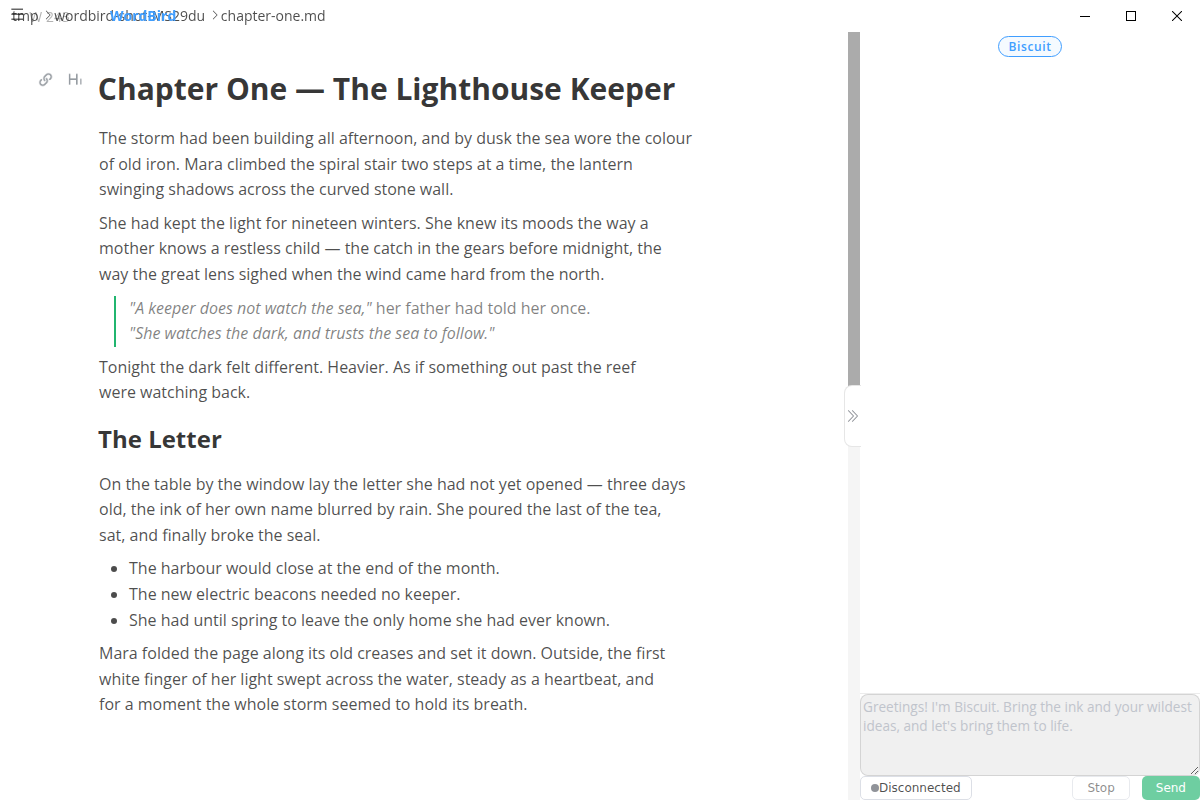
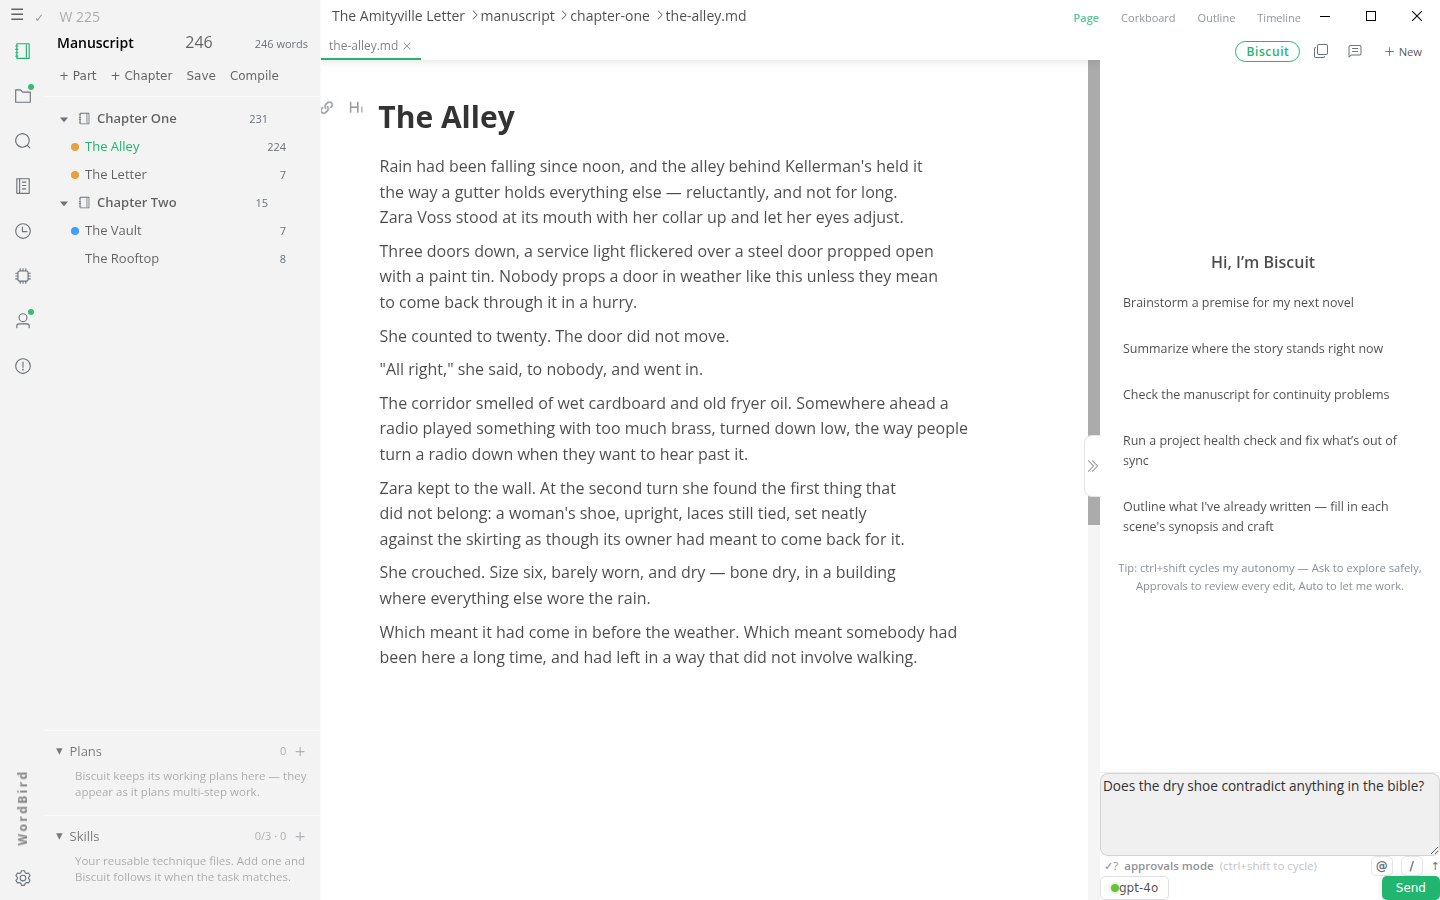
docs: README describes the whole product; new screenshot with both rails open
The README had drifted into describing a smaller app than the one that
ships: it named four permission modes (there are three — ask, approvals,
auto), claimed 29 tools (59) and 740 unit tests, and omitted most of what
WordBird now does — the Timeline and craft columns, voice exemplars, the
fact ledger and relationship map, decisions log, skills and biscuit.md,
manuscript import, EPUB/DOCX compile, project health and the steward,
prose linting, plans and book runs, writing goals, the agent tree, and
the Claude subscription provider.

Rewritten as a description of the product rather than a record of what
was added when: present tense, feature-first, no changelog framing.
Counts verified against the source (59 tools, 7 roles, 3 modes, 32
themes, 9 locales).

Screenshot recaptured at 1440x900 with the binder and Biscuit both open,
showing a real manuscript in the editor. The Biscuit panel is presented
in its connected state with a question typed in the composer — no model
output is fabricated.

diff --git a/README.md b/README.md
@@ -21,50 +21,73 @@
 
 <br>
 
+![WordBird — the binder, the manuscript, and Biscuit](docs/assets/wordbird.png?raw=true)
+
 ## Why WordBird?
 
 Every AI writing tool can generate a paragraph. Almost none can keep a **400-page novel coherent** — and not one lets you say *"this character no longer exists"* and safely carry that decision through the entire book.
 
-WordBird can. It's built around three ideas no other novel-writing app combines:
+WordBird is built around three ideas no other novel-writing app combines:
 
-🤖 **A real agent team, not a text box.** Biscuit doesn't just autocomplete. It orchestrates specialist AI agents — explorers that sweep your manuscript, researchers that hit the web and Wikipedia, drafters, continuity auditors, line editors, and plotters — spawned dynamically and running in parallel, with the whole operation narrated in plain language.
+🤖 **A real agent team, not a text box.** Biscuit orchestrates specialist agents — explorers that sweep your manuscript, researchers that hit the web, drafters, continuity auditors, line editors, plotters, and a steward that keeps the whole project in sync — spawned as the work demands and running in parallel, with the operation narrated in plain language.
 
-🔍 **Nothing lands without your say-so.** Every AI change arrives as a reviewable diff — accept per hunk, per file, or all at once — exactly like a modern code editor, but built for prose. Autonomy is a dial you control (Plan / Ask / Auto / Max, cycled with Shift+Tab), and every sweeping change is snapshot-protected so one click rewinds it.
+🔍 **Nothing lands without your say-so.** Every change to your prose arrives as a reviewable diff — accept per change or all at once. Autonomy is a dial you control, and every sweeping operation takes a snapshot first, so one click rewinds it.
 
-🏠 **Your book stays yours.** Plain Markdown files on your disk. Your own AI keys — OpenAI, Anthropic, Gemini, OpenRouter — or fully local with Ollama. No cloud lock-in, no proprietary format, no subscription holding your manuscript hostage.
+🏠 **Your book stays yours.** Plain Markdown files on your disk. Your own AI keys — OpenAI, Anthropic, Gemini, OpenRouter — a Claude Pro/Max subscription, or fully local with Ollama. No cloud lock-in, no proprietary format, no subscription holding your manuscript hostage.
 
-## Screenshot
+## The writing environment
 
-![WordBird — the novel-writing editor with the Biscuit AI companion](docs/assets/wordbird.png?raw=true)
+**The Binder** is a Scrivener-style manuscript tree with drag-to-reorder, per-scene status, POV and word counts. Projects come in three layouts — chapters & scenes, a flat scene pool, or single-file chapters — and all of them are just Markdown folders you can open in any other editor.
 
-## What it does
+**Four ways to see your book.** Page for writing, Corkboard for scene cards and synopses, Outline for a sortable metadata table (status, POV, location, plus goal/conflict/outcome and value-shift craft columns), and Timeline for story-time against narrative order, with subplot threads as filterable lanes.
 
-### ✍ A serious writing environment
-- **Distraction-free WYSIWYG editor** — write Markdown, see finished prose; focus & typewriter modes
-- **The Binder** — Scrivener-style manuscript tree with drag-to-reorder, per-scene status and word counts
-- **Corkboard, Outline & Timeline views** — scene cards with synopses, a metadata table (POV, location, status), and story-time vs narrative-order chronology
-- **Three project layouts** — chapters & scenes, a flat scene pool, or simple one-file chapters; all plain Markdown folders
-- **Compile** — assemble the whole manuscript into one document with configurable separators
-- **35 themes, 9 languages**, KaTeX math, Mermaid diagrams, and everything else a Markdown editor should have
+**The editor** is distraction-free WYSIWYG: you write Markdown and see finished prose. Focus and typewriter modes, a source view, KaTeX math, Mermaid and PlantUML diagrams, 32 themes, and 9 languages.
 
-### 📖 A story bible the AI treats as law
-- Characters, places, plot threads, and research live as editable Markdown pages the AI reads **before** writing and keeps updated as your story grows
-- **Locked canon** — mark any fact immutable and no agent may ever contradict it; if prose conflicts, the prose gets fixed
-- **Aliases** — "Liz", "Lizzy", and "the Widow Hale" are all Elizabeth; searches and revisions never miss a reference
-- A **style guide** (voice, tense, POV rules, banned words) every drafting agent obeys
+**Goals that fit how novelists work.** Set a word target with a finish-by date and WordBird computes the daily quota, tracks your streak, and counts the session — plus a per-project history of what you wrote each day.
 
-### 🤖 Biscuit, the agentic companion
-- **Brainstorm** with an AI that researches online (web search, full Wikipedia access, dictionary & thesaurus) and saves cited findings into your bible
-- **Draft** scenes and chapters grounded in your canon, outline, and voice
-- **Select any passage** in the editor → Rewrite / Expand / Describe / ask anything — results arrive as inline diffs
-- **Sweeping revisions**: *"Marcus never existed"* becomes a guided workflow — Biscuit interviews you for guidance, maps every affected scene with evidence for your approval, executes in resumable batches through the review queue, then audits that zero references survive
-- **Continuity inspector** — agents log contradictions (eye color, timeline, who-knows-what) with quoted evidence; issues close only when verified fixed in the prose
-- **29+ typed tools**, each role-scoped: read-only agents can never write; only you approve prose changes
+**Get your book in and out.** Import an existing manuscript and WordBird splits it into chapters and scenes by its own headings. Compile the finished thing to Markdown, EPUB, or DOCX, or export single documents as HTML or PDF.
 
-### 🛟 Safety rails everywhere
-- **Snapshots & rewind** — the entire project (prose + bible together) is versioned; a friendly History panel rewinds any change, including everything an agent did
-- **Durable memory** — conversations survive restarts; long agent runs resume where they stopped; a Copilot-style ring shows when Biscuit will condense older conversation
-- **Budgets** — hard caps on agents per wave, waves per turn, and context size; the AI can't run away with your money
+**Snapshots over the whole project.** Prose and bible are versioned together, so a rewind restores a consistent moment rather than one file. Browse history, diff any file against any snapshot, preview exactly what a restore would change, and roll back — including everything an agent did.
+
+## The story bible
+
+Characters, places, plot threads, and research live as editable Markdown pages that agents read **before** writing and keep current as the story grows.
+
+- **Aliases** — "Liz", "Lizzy", and "the Widow Hale" are all Elizabeth, so searches and revisions never miss a reference
+- **Locked canon** — mark a page immutable and no agent may contradict it on any route; if the prose conflicts, the prose gets fixed
+- **A style guide** — voice, tense, POV rules, and banned words that every drafting agent obeys
+- **Voice exemplars** — passages of your own prose that drafters match, so the book sounds like you rather than like a model
+- **A fact ledger** — typed subject–relation–object facts with their source scene, which auditors check new prose against and which generate a relationship map
+- **A decisions log** — settled creative choices with reasons, so a question you already answered never gets relitigated
+- **Skills** — your own technique files ("how I write fight scenes") that Biscuit follows when the task matches, and `biscuit.md` for standing instructions that ride every turn
+
+An **entity index** reads all of it deterministically — no model involved — to tell you who appears where, and to feed each turn's context with the bible pages that scene actually needs.
+
+## Biscuit, the agentic companion
+
+**Research that lands in your bible.** Web search across multiple providers, full Wikipedia, dictionary and thesaurus, book catalogues and academic papers — with findings saved as cited notes rather than lost in chat. Fetched sources are cached per project and shared between agents working the same turn.
+
+**Drafting grounded in your book.** Scenes are written against your outline, canon, and voice, with the tail of the preceding scene handed forward so continuity holds at the seams.
+
+**Select any passage** → Rewrite, Expand, Describe, or ask anything; results arrive as inline diffs.
+
+**Sweeping revisions.** *"Marcus never existed"* becomes a guided workflow: Biscuit interviews you, maps every affected scene with evidence for your approval, executes in resumable batches through the review queue, then audits that no references survive.
+
+**Continuity and health.** Agents log contradictions — eye colour, timeline, who-knows-what — with quoted evidence, and issues close only when a fix is verified in the prose. A steward runs a deterministic health check over the whole project (missing metadata, stale summaries, contradictory facts, recurring names with no bible page, binder-vs-disk drift) and repairs or reports what it finds.
+
+**Prose linting.** Deterministic checks for doubled words, filler, filter phrases, passive and adverb density, and your own banned terms — plus corpus-wide checks for phrases echoed across scenes and machine-flat rhythm.
+
+**Plans and book runs.** Biscuit writes multi-step plans as files you can edit, and in auto mode can continue through a plan across many turns — bounded by budgets, a no-progress detector, and your approval at every ceiling.
+
+**Watch it work.** An agent tree shows each sub-agent, its task, and its tool calls live; the sidebar marks which views changed while you were elsewhere; transcripts of every conversation are searchable alongside your manuscript.
+
+## Safety rails
+
+- **Three modes** — Ask is mechanically read-only, Approvals queues every change for review, Auto applies after taking a snapshot. Cycle them with ctrl+shift; the choice is remembered per project.
+- **59 typed tools, scoped per role** — read-only agents cannot write, and prose changes only reach your files through the review queue or an explicit approval.
+- **Nothing touches internals** — `.wordbird/` and `.git/` are off-limits to every tool, enforced when a change is proposed and again when it is applied.
+- **Everything is per project** — conversations, permission mode, agent state, and caches never leak between books.
+- **Budgets** — caps on agents per wave, waves per turn, and context size, with a ring showing when older conversation will be condensed.
 
 ## Download
 
@@ -90,7 +113,8 @@ WordBird is a pnpm monorepo (Electron 42 + Vue 3 + LangGraph). See [CLAUDE.md](C
 ```bash
 pnpm install
 pnpm run dev      # start in development mode
-pnpm run test     # 740+ unit tests
+pnpm run test     # unit tests
+pnpm run test:e2e # Playwright end-to-end tests
 pnpm run build:linux | build:mac | build:win
 ```
 
